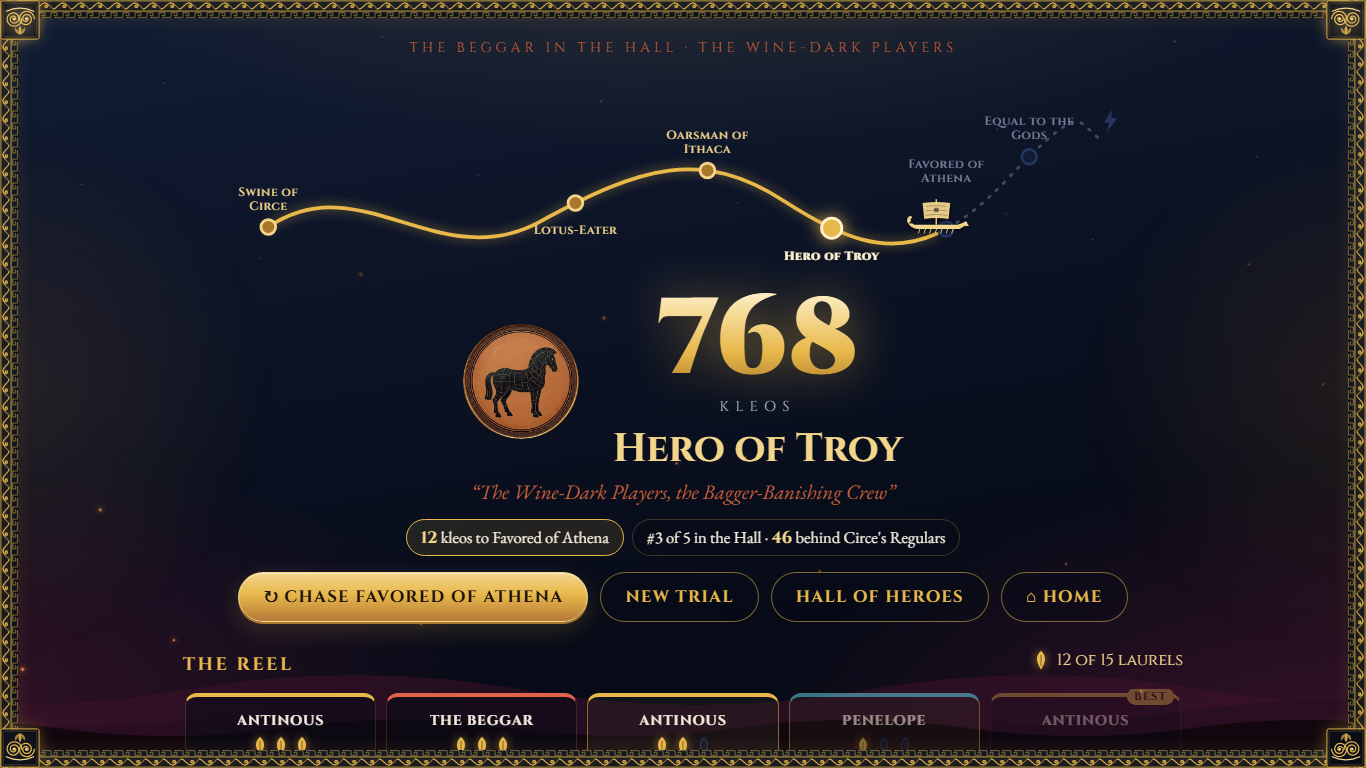
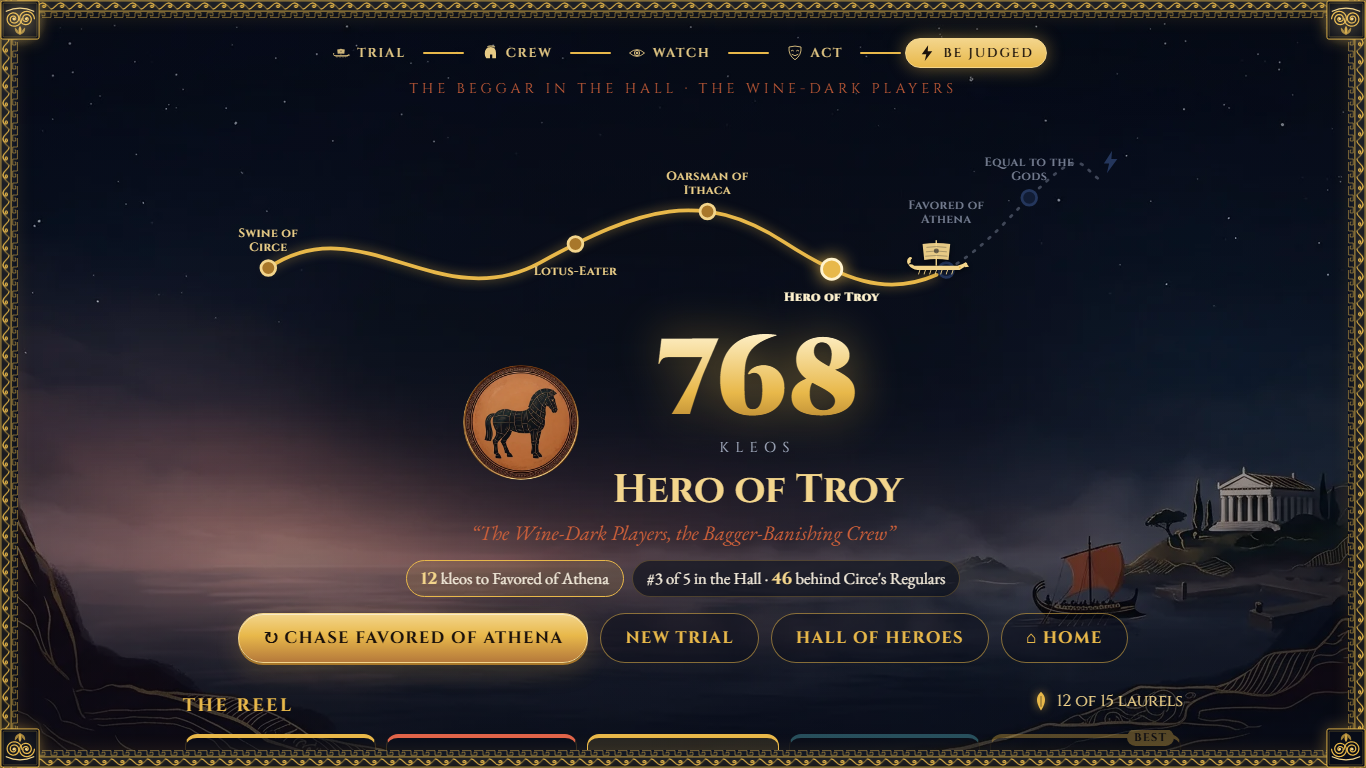
Painted backdrops: dawn over Ithaca behind the score, constellations behind the Hall of Heroes

diff --git a/frontend/src/index.css b/frontend/src/index.css
@@ -398,3 +398,21 @@ th { color: var(--gold-soft); font-size: .85rem; font-weight: 500; }
   .bd-embers, .flash { display: none; }
   .voyage-ship { left: 40%; }
 }
+
+/* ---------- painted page backdrops (ui/PageBackdrop.jsx) */
+.page-bd { position: fixed; inset: 0; z-index: 0; pointer-events: none; background-color: #0a0710; }
+/* Score page: rosy-fingered dawn over Ithaca. Dark veil over the centre where the kleos sits. */
+.page-bd-dawn {
+  background:
+    radial-gradient(ellipse at 50% 42%, rgba(7, 9, 20, .62), rgba(7, 9, 20, .25) 58%, rgba(7, 9, 20, .55)),
+    linear-gradient(180deg, rgba(7, 9, 20, .35), rgba(7, 9, 20, 0) 45%, rgba(7, 9, 20, .55)),
+    url('/art/generated/verdict-dawn-ithaca.webp') center 62% / cover no-repeat,
+    #0a0710;
+}
+/* Hall of Heroes: heroes as constellations around the edges */
+.page-bd-stars {
+  background:
+    radial-gradient(ellipse at 50% 50%, rgba(7, 9, 20, .55), rgba(7, 9, 20, .15) 65%, rgba(7, 9, 20, .4)),
+    url('/art/generated/hall-heroes-stars.webp') center / cover no-repeat,
+    #0a0710;
+}

diff --git a/frontend/src/screens/Leaderboard.jsx b/frontend/src/screens/Leaderboard.jsx
@@ -1,3 +1,4 @@
+import PageBackdrop from '../ui/PageBackdrop.jsx'
 import { useEffect, useRef, useState } from 'react'
 import { api } from '../api.js'
 import { Laurel } from '../ui/Art.jsx'
@@ -34,6 +35,7 @@ export default function Leaderboard({ onBack, highlight, onRetry }) {
 
   return (
     <div className="panel ol">
+      <PageBackdrop variant="stars" />
       <div className="ol-bar">
         <button className="link" onClick={onBack}>{highlight ? '← Back to your verdict' : '← Back'}</button>
         {onRetry && <button className="btn" onClick={onRetry}>↻ {next ? `Chase ${next.name}` : 'Sail it again'}</button>}

diff --git a/frontend/src/screens/Verdict.jsx b/frontend/src/screens/Verdict.jsx
@@ -1,3 +1,4 @@
+import PageBackdrop from '../ui/PageBackdrop.jsx'
 import { useCallback, useEffect, useState } from 'react'
 import { PLAYER_COLORS } from '../playerColors.js'
 import { godArt } from '../ui/rankArt.js'
@@ -30,6 +31,7 @@ export default function Verdict({ result, scene, snaps, onRetry, onNew, onHall, 
 
   return (
     <div className="panel verdict vd">
+      <PageBackdrop variant="dawn" />
       <p className="eyebrow center">{result.scene_title} · {result.team_name}</p>
 
       <Voyage voyage={reel.voyage} onArrive={onArrive} />

diff --git a/frontend/src/ui/PageBackdrop.jsx b/frontend/src/ui/PageBackdrop.jsx
@@ -1,0 +1,7 @@
+import { createPortal } from 'react-dom'
+
+// Full-screen painted backdrop rendered into <body> (not inside the animated panel, whose
+// transform would break position: fixed). Static image + gradient veil; no animation.
+export default function PageBackdrop({ variant }) {
+  return createPortal(<div className={`page-bd page-bd-${variant}`} aria-hidden="true" />, document.body)
+}
